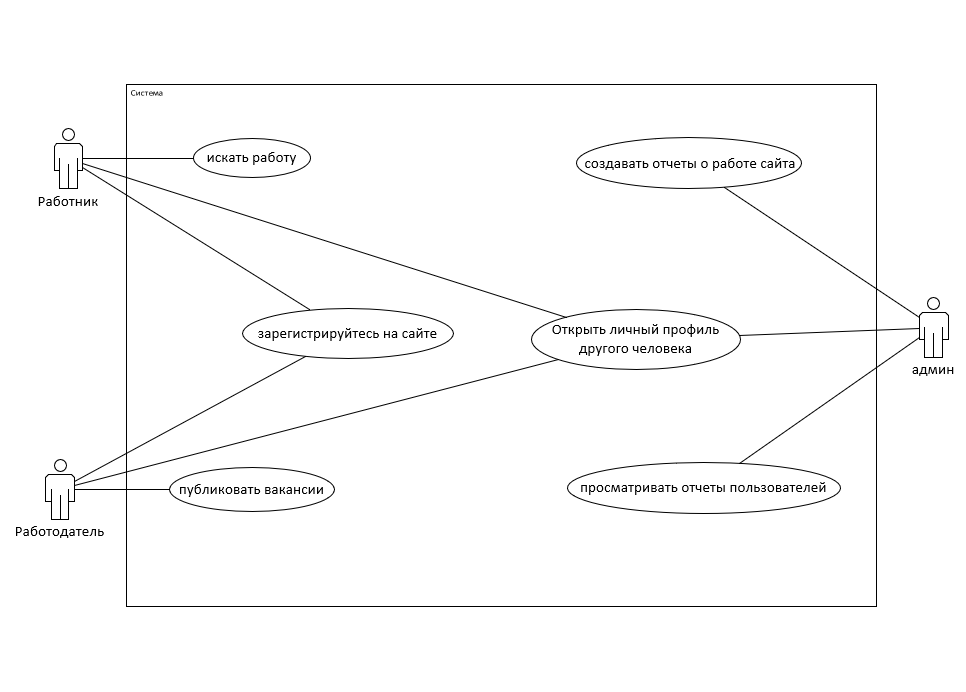
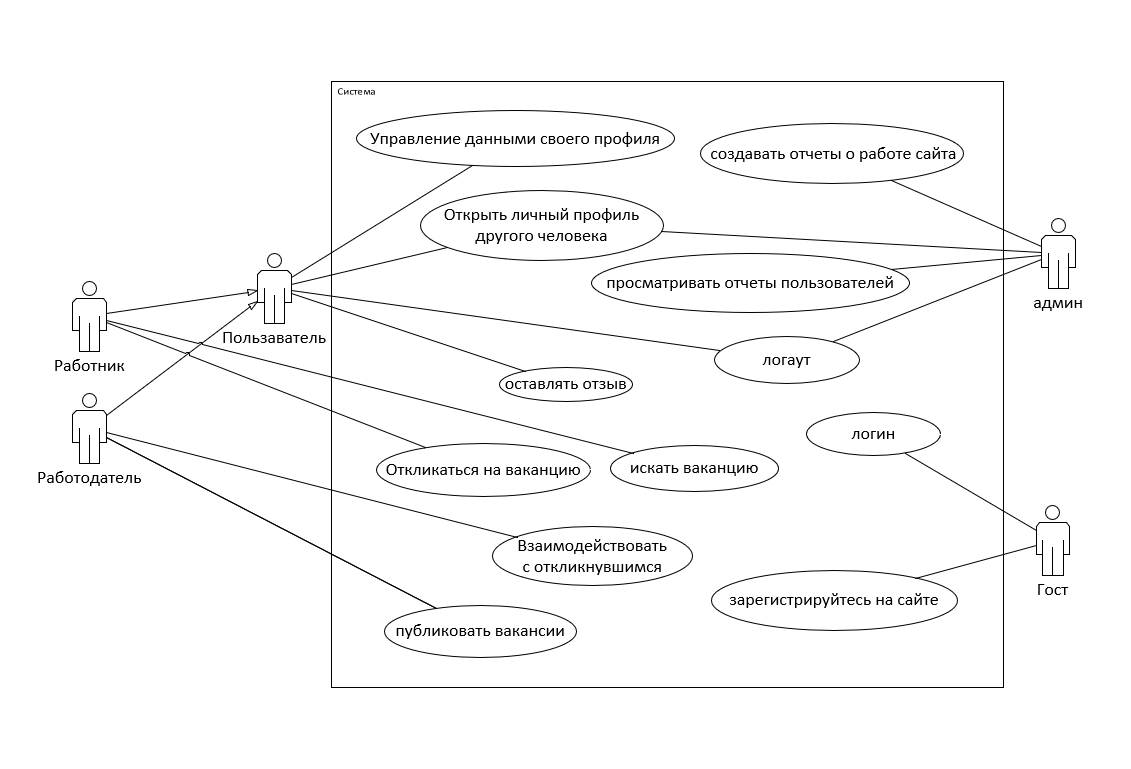
usecase

diff --git a/Бизнес-требования.md b/Бизнес-требования.md
@@ -6,41 +6,40 @@
 ## Действующие лица
 С системой взаимодействуют следующие действующие лица:
 
-- Работник: человек имеющий возможность искать работу.
-- Работодатель: человек имеющий возможность опубликовать разовую работу на сайт.
-- Админ: человек, который пишет отчеты о работе сайта и следит за отчетами пользователей (о работе сайта или о других людях)
+- Гост: человек, который еще не зашел на сайт.
+- Работник: человек имеющий возможность искать ваканцию.
+- Работодатель: человек имеющий возможность опубликовать разовую работу.
+- Пользаватель: и работник и работодатель.
+- Админ: человек, который пишет отчеты о работе сайта и следит за отчетами пользователей (о работе сайта или о других людях).
 
 ## Варианты использования
-Варианты использования - высокоуровневые сценарии, описывающие задачи, которые
-выполняет система и действующие лица, которые в этих сценариях участвуют.
+Варианты использования - высокоуровневые сценарии, описывающие задачи, которые выполняет система и действующие лица, которые в этих сценариях участвуют.
 
 ### Классификация по действующим лицам
 
-**Работник:**
-- зарегистрируйтесь на сайте
-  + войти в свой аккаунт
-  + Управление данными своего профиля
-- искать работу
-  + Oткрыть личный профиль работодателя
-  + Oткликаться на доступные заказы
-  + Предоставить свое предложение по цене
-  + оставлять отзыв
+**Гост**
+- Зарегистрируйтесь на сайте
+- Логин
 
+**Пользаватель**
+- догаут
+- Открыть личный профиль другого человека
+- Oставлять отзыв
+- Управление данными своего профиля
 
-**Работодатель:**
-- зарегистрируйтесь на сайте
-  + войти в свой аккаунт
-  + Управление данными своего профиля
-- опубликовать разовую работу
-  + Открыть личный профиль работников
-  + Взаимодействовать с откликнувшимся (отказать, принять)
-  + оставлять отзыв
++ **Работник:**
+  - искать ваканцию
+  - Oткликаться на ваканцию
 
++ **Работодатель:**
+  - Опубликовать разовую работу
+  - Взаимодействовать с откликнувшимся (отказать, принять)
 
 **Админ:**
 - писать отчеты о работе сайта
 - следить за отчетами пользователей
 - Открыть личный профиль работников
+- Логаут
 
 
 Диаграмма вариантов использования приведены на следующем рисунке:
